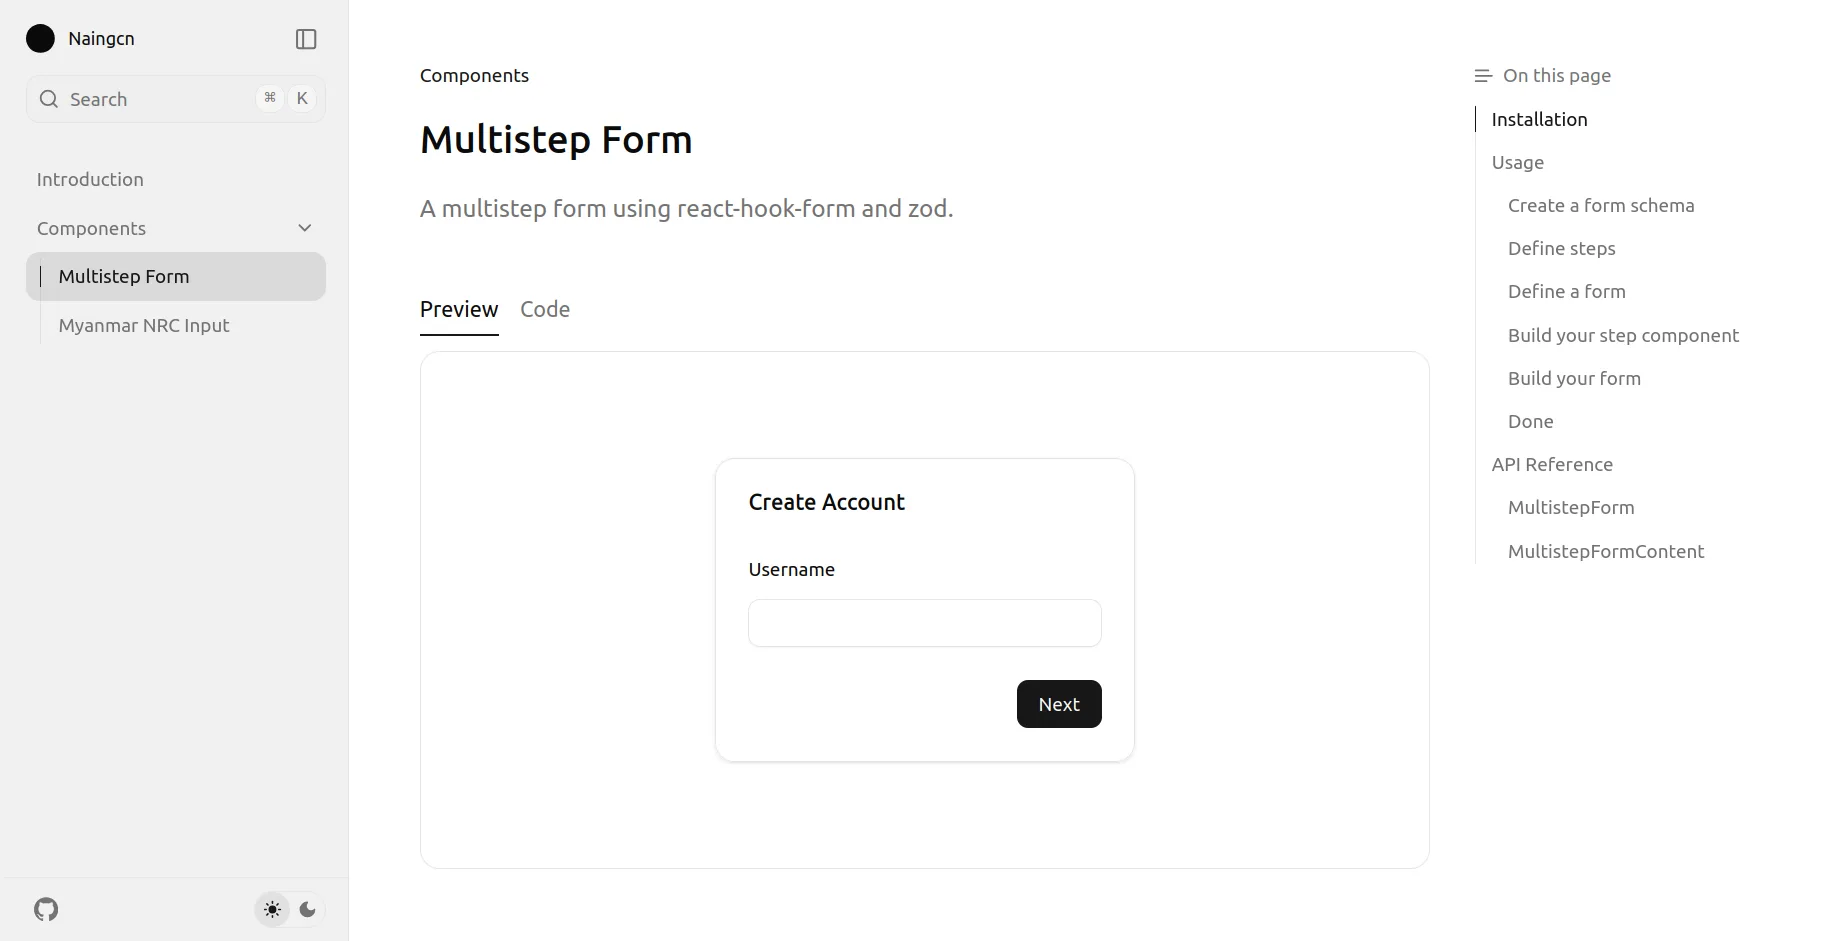
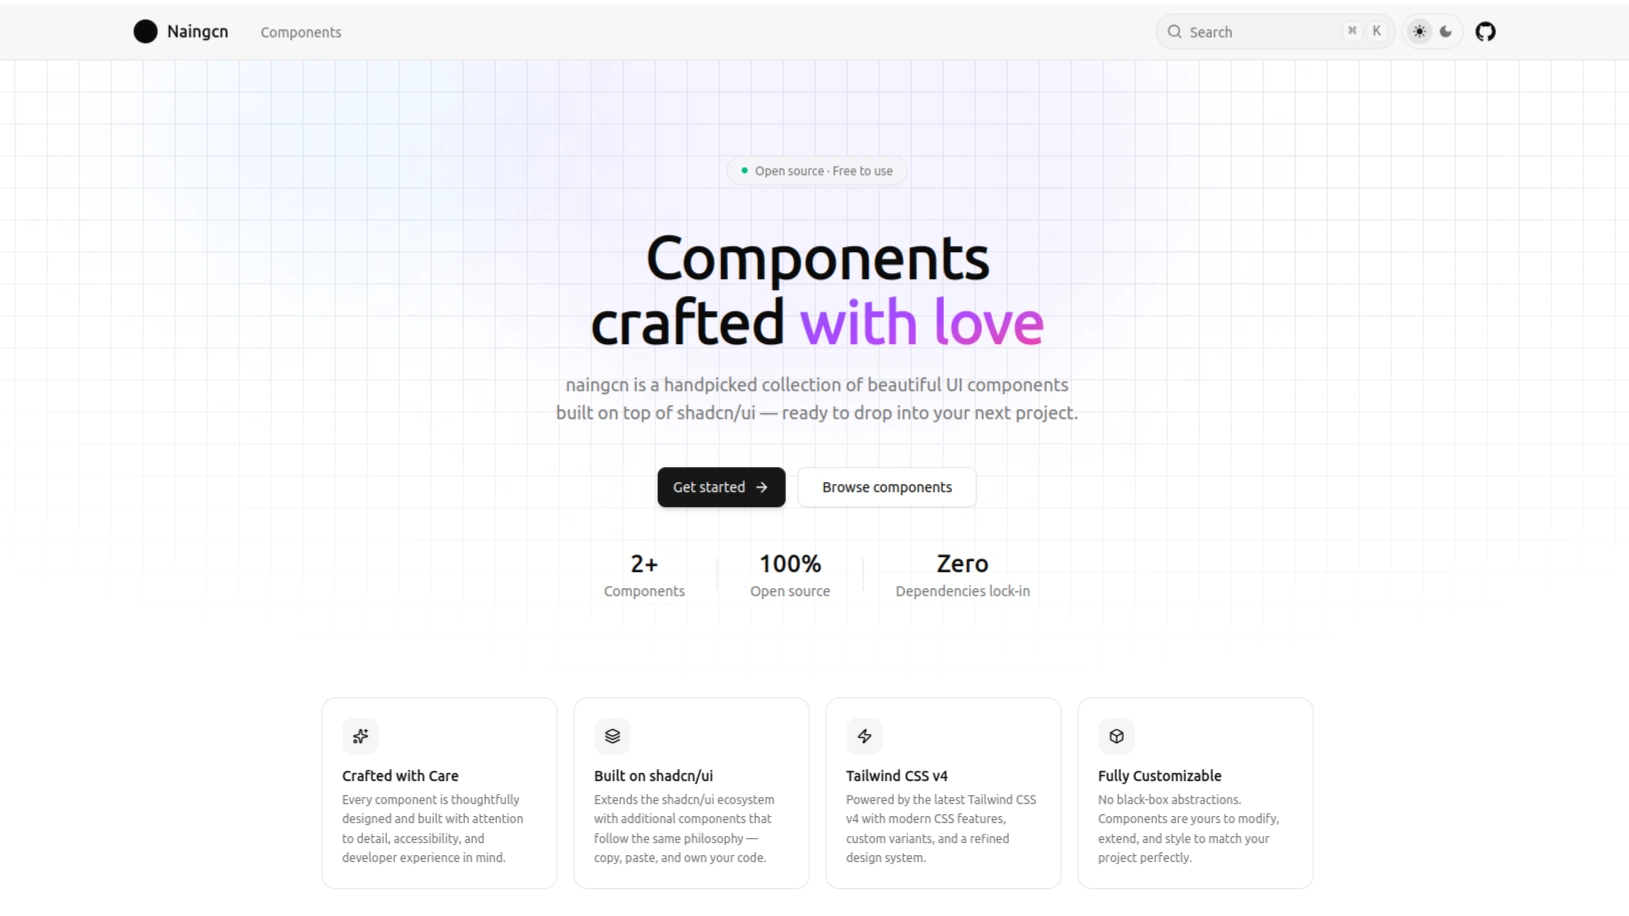
feat: add technology stack details to project metadata and improve project display

diff --git a/src/app/(home)/_sections/projects/Projects.tsx b/src/app/(home)/_sections/projects/Projects.tsx
@@ -32,6 +32,7 @@ export const Projects = () => {
                 repo: page.repo,
                 url: page.url,
                 link: node.url,
+                tech: page.tech,
               }}
             />
           );
@@ -50,6 +51,7 @@ const ProjectArticle = ({
     repo?: string;
     url?: string;
     link: string;
+    tech?: string[];
   };
 }) => {
   return (
@@ -70,12 +72,28 @@ const ProjectArticle = ({
       </div>
 
       {/* Project Text */}
-      <div className="flex flex-col justify-center p-4 pb-8 md:p-8">
-        <h2>{project.name}</h2>
-        <p className="text-foreground/80 mt-4 text-justify">
-          {project.description}
-        </p>
-        <div className="mt-4 flex items-center gap-2 md:mt-6">
+      <div className="flex flex-col justify-center gap-4 p-4 pb-8 md:gap-6 md:p-8">
+        <div>
+          <h2>{project.name}</h2>
+          <p className="text-foreground/80 mt-4 text-justify">
+            {project.description}
+          </p>
+        </div>
+
+        {project.tech && (
+          <div className="flex flex-wrap items-center gap-x-1 md:gap-1.5">
+            {project.tech.map((t) => (
+              <div
+                key={t}
+                className="border-border bg-secondary text-secondary-foreground border px-2 py-1 font-mono text-xs font-medium tracking-widest"
+              >
+                {t}
+              </div>
+            ))}
+          </div>
+        )}
+
+        <div className="flex items-center gap-2">
           <Button asChild variant={"default"}>
             <a href={project.link}>
               Overview

diff --git a/src/app/(home)/_sections/about/Education.tsx b/src/app/(home)/_sections/about/Education.tsx
@@ -48,7 +48,7 @@ export const Education = () => {
         <p className="text-sm leading-tight">2021 - Present</p>
 
         <div className="mt-8 mb-4 flex items-center gap-4 md:gap-6">
-          <h5 className="bg-secondary text-secondary-foreground p-2">
+          <h5 className="bg-secondary text-secondary-foreground px-2.5 py-2 uppercase">
             Relevant Coursework
           </h5>
           <div className="bg-border h-px flex-1"></div>
@@ -66,7 +66,7 @@ export const Education = () => {
         </div>
 
         <div className="mt-8 mb-4 flex items-center gap-4 md:gap-6">
-          <h5 className="bg-secondary text-secondary-foreground p-2">
+          <h5 className="bg-secondary text-secondary-foreground px-2.5 py-2 uppercase">
             Academic Projects &amp; Leadership
           </h5>
           <div className="bg-border h-px flex-1"></div>

diff --git a/src/lib/source.ts b/src/lib/source.ts
@@ -10,6 +10,7 @@ const projects = defineDocs({
       cover: z.string().optional(),
       repo: z.string().optional(),
       url: z.string().optional(),
+      tech: z.array(z.string()).optional(),
     }),
   },
   meta: {

diff --git a/src/styles/globals.css b/src/styles/globals.css
@@ -119,7 +119,7 @@
   }
 
   h5 {
-    @apply text-muted-foreground font-mono text-xs font-medium tracking-widest uppercase;
+    @apply text-muted-foreground font-mono text-xs font-medium tracking-widest;
   }
 
   p {
